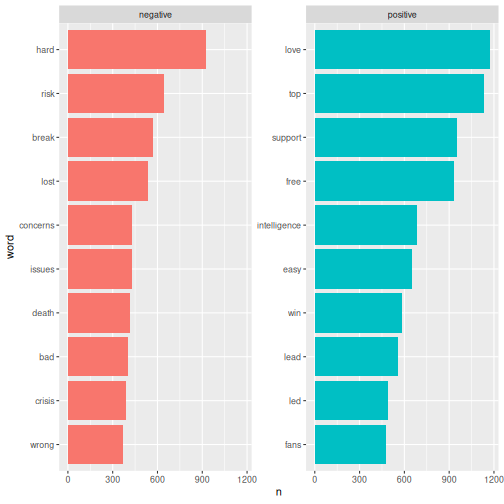
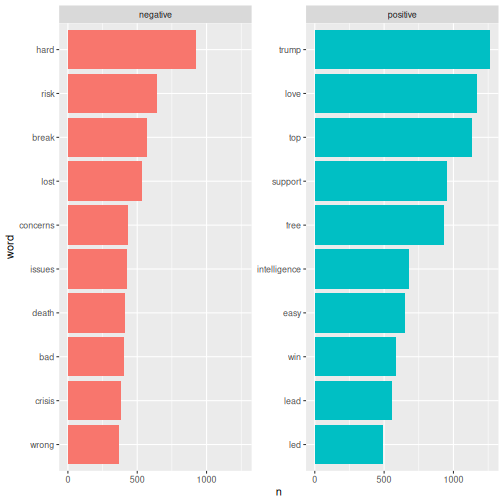
markdown source builds
Auto-generated via `{sandpaper}`
Source  : 17773e2c6c0dba35a07e8926140193678e1e6e62
Branch  : main
Author  : Sorendavidsen <[email redacted]>
Time    : 2026-06-26 10:38:05 +0000
Message : Merge pull request #170 from Sorendavidsen/main

Har rodet lidt

diff --git a/frequency-analysis.md b/frequency-analysis.md
@@ -23,6 +23,28 @@ exercises: 0
 
 
 
+
+``` r
+articles_anti_join
+```
+
+``` output
+# A tibble: 1,118,028 × 7
+      id date    section region author                          wordcount word  
+   <dbl> <chr>   <chr>   <chr>  <chr>                               <dbl> <chr> 
+ 1     1 2026-05 News    UK     Jessica Murray and Robert Booth      1328 brita…
+ 2     1 2026-05 News    UK     Jessica Murray and Robert Booth      1328 biome…
+ 3     1 2026-05 News    UK     Jessica Murray and Robert Booth      1328 watch…
+ 4     1 2026-05 News    UK     Jessica Murray and Robert Booth      1328 warned
+ 5     1 2026-05 News    UK     Jessica Murray and Robert Booth      1328 natio…
+ 6     1 2026-05 News    UK     Jessica Murray and Robert Booth      1328 overs…
+ 7     1 2026-05 News    UK     Jessica Murray and Robert Booth      1328 ai    
+ 8     1 2026-05 News    UK     Jessica Murray and Robert Booth      1328 power…
+ 9     1 2026-05 News    UK     Jessica Murray and Robert Booth      1328 scann…
+10     1 2026-05 News    UK     Jessica Murray and Robert Booth      1328 catch 
+# ℹ 1,118,018 more rows
+```
+
 ## Frequency analysis
 
 A word frequency is a relatively simple analysis. It measures how often words occur in a text. 
@@ -58,29 +80,27 @@ A closer look at the list may reveal that some words are irrelevant. Given that 
 
 ``` r
 articles_filtered <- articles_anti_join |> 
-  filter(!word %in% c("trump", "trump’s", 
-                      "obama", "obama's", 
-                      "inauguration", "president"))
+  filter(!word %in% c("it’s", "don’t"))
 
 articles_filtered |> 
   count(word, sort = TRUE)
 ```
 
 ``` output
-# A tibble: 68,894 × 2
+# A tibble: 68,897 × 2
    word           n
    <chr>      <int>
- 1 it’s        6584
- 2 ai          5778
- 3 people      4422
- 4 time        4277
- 5 technology  3946
- 6 world       2758
- 7 don’t       2131
- 8 day         1803
- 9 life        1694
-10 uk          1690
-# ℹ 68,884 more rows
+ 1 ai          5778
+ 2 people      4422
+ 3 time        4277
+ 4 technology  3946
+ 5 world       2758
+ 6 day         1803
+ 7 life        1694
+ 8 uk          1690
+ 9 that’s      1667
+10 government  1644
+# ℹ 68,887 more rows
 ```
 The words deemed irrelevant are no longer on the list above.
 
@@ -89,15 +109,26 @@ Instead of a general list it may be more interesting to focus on the most freque
 
 ``` r
 articles_filtered |> 
-  count(president, word, sort = TRUE)
+  count(section, word, sort = TRUE)
 ```
 
-``` error
-Error in `count()`:
-! Must group by variables found in `.data`.
-✖ Column `president` is not found.
+``` output
+# A tibble: 138,065 × 3
+   section   word           n
+   <chr>     <chr>      <int>
+ 1 News      ai          3131
+ 2 News      technology  1993
+ 3 Sport     england     1371
+ 4 Sport     ball        1287
+ 5 Opinion   ai          1250
+ 6 Sport     1           1239
+ 7 News      people      1196
+ 8 Lifestyle time        1117
+ 9 Lifestyle people      1062
+10 Sport     time        1050
+# ℹ 138,055 more rows
 ```
-Keeping an overview of the words associated with each president can be a bit tricky. For instance, the word "people" is associated with both presidents. This is easy to see, as the two words are right next to each other. The two occurrences of the word America, however, are further apart, although this word is also associated with both presidents. A visualisation may solve this problem.
+Keeping an overview of the words associated with each section can be a bit tricky. For instance, the word "people" is associated with both presidents. This is easy to see, as the two words are right next to each other. The two occurrences of the word America, however, are further apart, although this word is also associated with both presidents. A visualisation may solve this problem.
 
 
 

diff --git a/preparing-data.md b/preparing-data.md
@@ -49,7 +49,9 @@ articles_tidy
 
 ## Tokenisation
 
-The result of the tokenisation is 118,269 rows. The reason is that the `text`-column has been replaced by a new column named `word`. This column contains all words found in all of the articles. The information from the remaining columns are kept. This makes is possible to determine which article each word belongs to.
+The result of the tokenisation is 2,405,300 rows. The reason is that the `text`-column has been replaced by a new column named `word`. This column contains all words found in all of the articles. The information from the remaining columns are kept. This makes is possible to determine which article each word belongs to.
+
+Note that we can only see part of the word column's content.
 
 ::::
 
@@ -199,8 +201,10 @@ These words are saved as the object `articles_anti_join`.
 ::: callout
 ### `Join` and `anti_join`
 
-There are multiple `join`-functions in R.
+There are multiple `join`-functions in R. [Read more](https://r4ds.hadley.nz/joins.html){target="_blank"}
+
 :::
+
 
 
 

diff --git a/sentiment.md b/sentiment.md
@@ -83,7 +83,7 @@ articles_bing
 ```
 
 ``` output
-# A tibble: 122,405 × 8
+# A tibble: 123,667 × 8
       id date    section region author                 wordcount word  sentiment
    <dbl> <chr>   <chr>   <chr>  <chr>                      <dbl> <chr> <chr>    
  1     1 2026-05 News    UK     Jessica Murray and Ro…      1328 warn… negative 
@@ -96,7 +96,7 @@ articles_bing
  8     1 2026-05 News    UK     Jessica Murray and Ro…      1328 misu… negative 
  9     1 2026-05 News    UK     Jessica Murray and Ro…      1328 over… negative 
 10     1 2026-05 News    UK     Jessica Murray and Ro…      1328 brea… positive 
-# ℹ 122,395 more rows
+# ℹ 123,657 more rows
 ```
 
 In R, `inner_join()` is commonly used to combine datasets based on a shared column. In this case it is the `word` column. `inner_join()` matches words from a text dataset, in this case `articles_filtered` with words in the Bing sentiment lexicon to determine whether they are positive or negative.